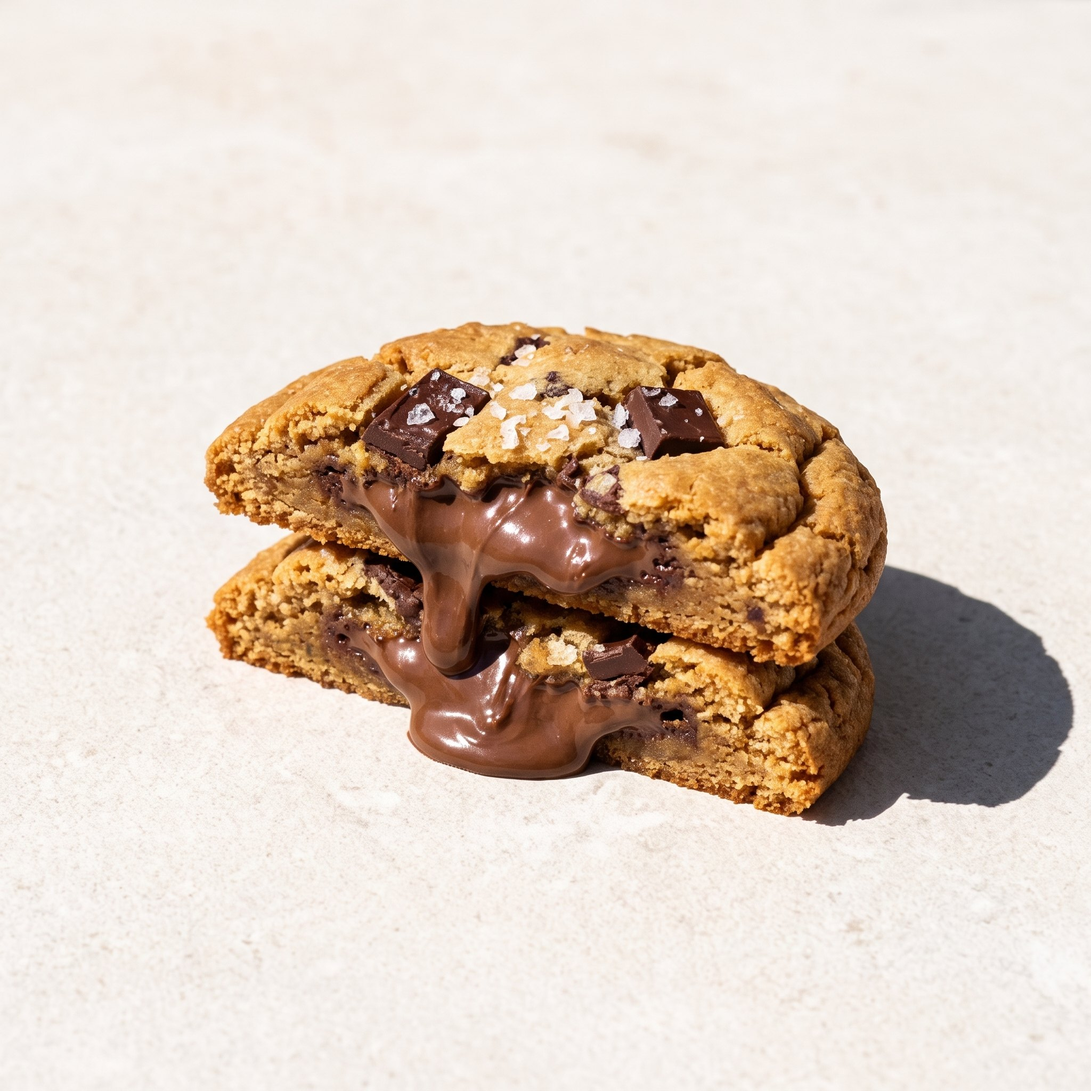
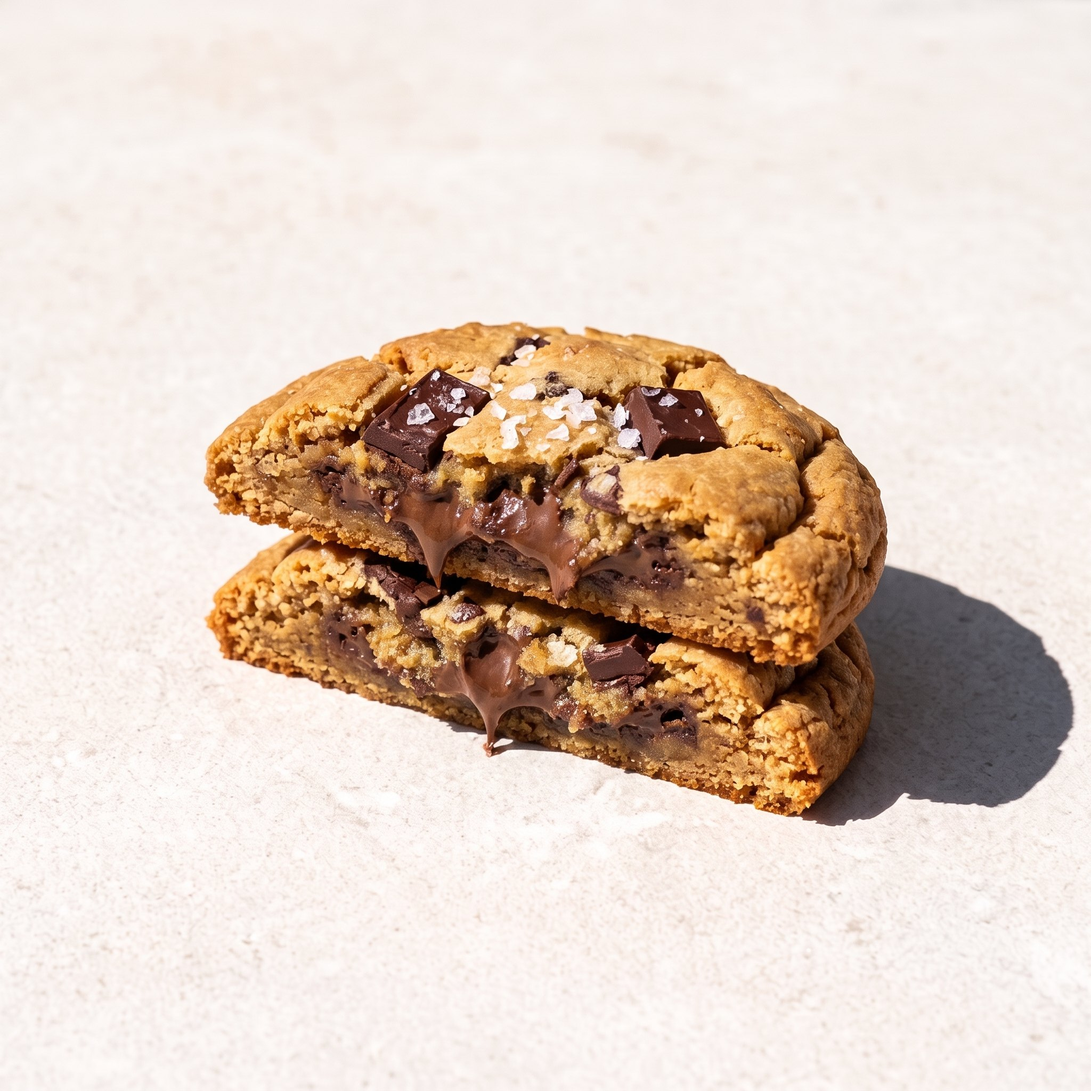
Add a brownies section and apply team feedback to cookie photos
New Brownies section (Classic, Peanut Butter, Caramel Sea Salt, Galaxy,
Pistachio Kunafa) after the tins, with a header link. Descriptions are
drafts from the product photo.

Cookie photo fixes from the team: less sauce on Black & Bougie, Cake by
the Ocean, Island Time, Spreadable Love and Kinder Era; more natural,
melted-in chocolate on Cake by the Ocean, Spreadable Love and the She's
a Classic top view; jam instead of raspberries on Jam Session; lighter,
Kinder-like dough on Kinder Era.

Claude-Session: https://claude.ai/code/session_01Wnr1QAv5MK4bohHnLM9nsW

Changed region(s): [[0.1875, 0.3125, 0.8125, 0.75]]

diff --git a/src/data/brownies.ts b/src/data/brownies.ts
@@ -1,0 +1,50 @@
+import type { ImageMetadata } from 'astro';
+
+import classic from '../assets/brownies/classic.jpg';
+import peanutButter from '../assets/brownies/peanut-butter.jpg';
+import caramelSeaSalt from '../assets/brownies/caramel-sea-salt.jpg';
+import galaxy from '../assets/brownies/galaxy.jpg';
+import pistachioKunafa from '../assets/brownies/pistachio-kunafa.jpg';
+
+export interface Brownie {
+  slug: string;
+  name: string;
+  description: string;
+  /** Square 2048x2048 shot of two stacked squares, the top one torn open. */
+  image: ImageMetadata;
+}
+
+// Names follow the BATCH menu. Descriptions are drafts written from the product photo:
+// confirm them with the brand team before launch.
+export const brownies: Brownie[] = [
+  {
+    slug: 'classic-brownie',
+    name: 'Classic',
+    description: 'Dense, fudgy dark chocolate brownie with melty chocolate chunks.',
+    image: classic,
+  },
+  {
+    slug: 'peanut-butter-brownie',
+    name: 'Peanut Butter',
+    description: 'Fudgy chocolate brownie with a creamy peanut butter layer.',
+    image: peanutButter,
+  },
+  {
+    slug: 'caramel-sea-salt-brownie',
+    name: 'Caramel Sea Salt',
+    description: 'A gooey caramel layer and flakes of sea salt through fudgy chocolate.',
+    image: caramelSeaSalt,
+  },
+  {
+    slug: 'galaxy-brownie',
+    name: 'Galaxy',
+    description: 'Loaded with Galaxy chocolate and soft caramel pieces.',
+    image: galaxy,
+  },
+  {
+    slug: 'pistachio-kunafa-brownie',
+    name: 'Pistachio Kunafa',
+    description: 'Fudgy brownie with a pistachio cream layer and crispy kunafa.',
+    image: pistachioKunafa,
+  },
+];
